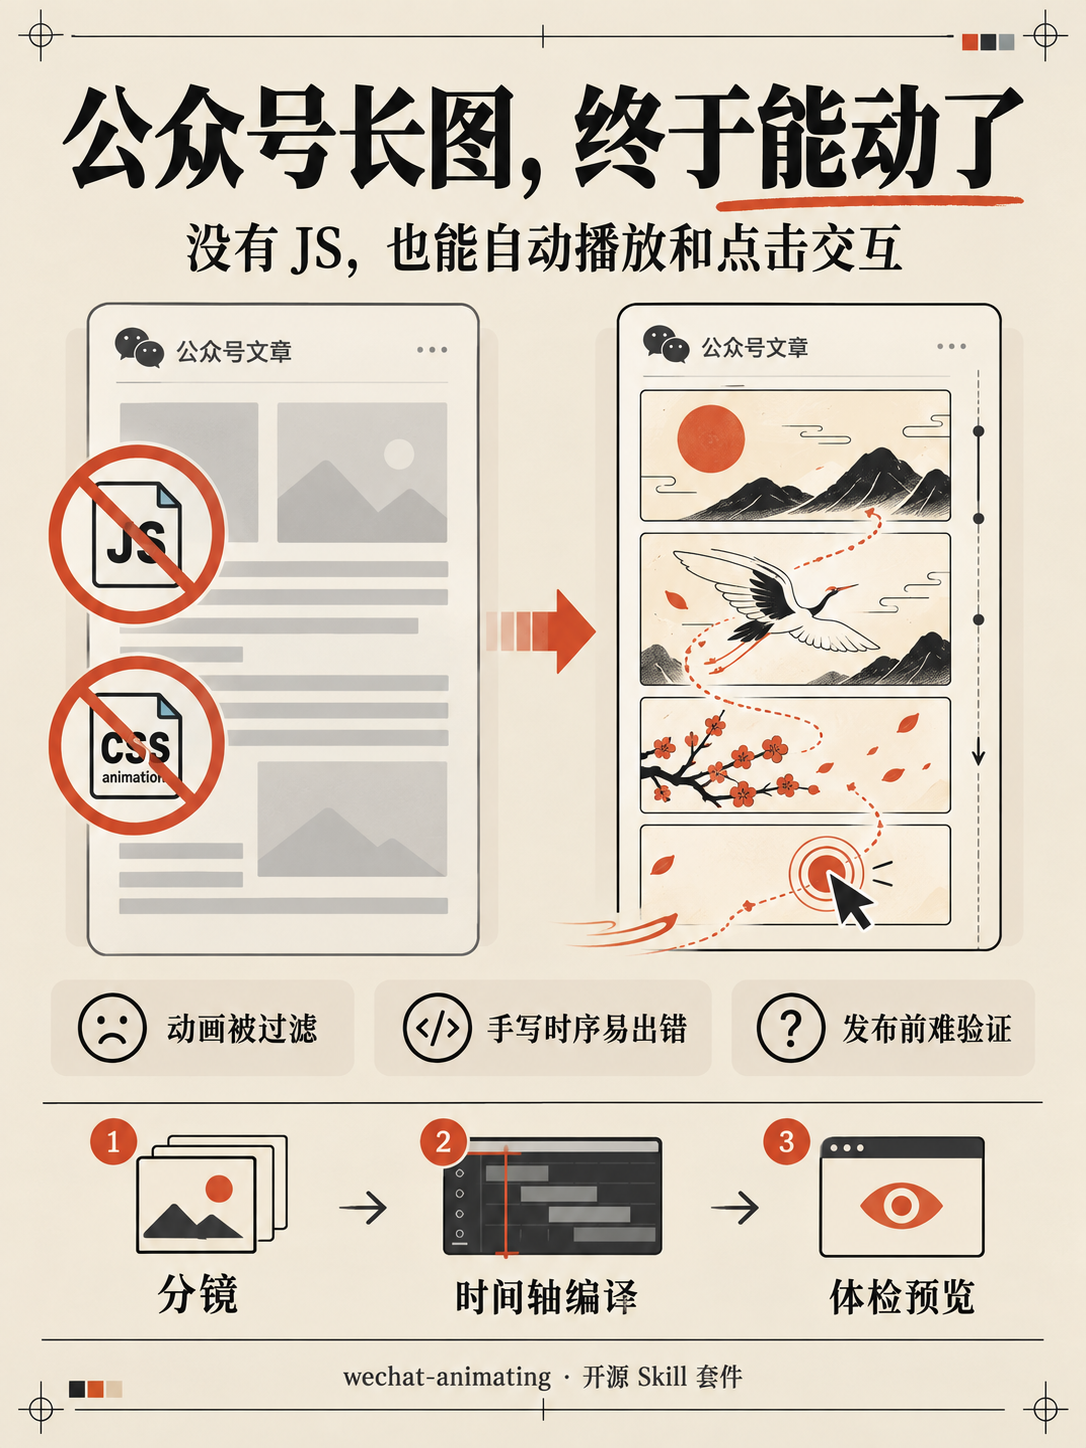
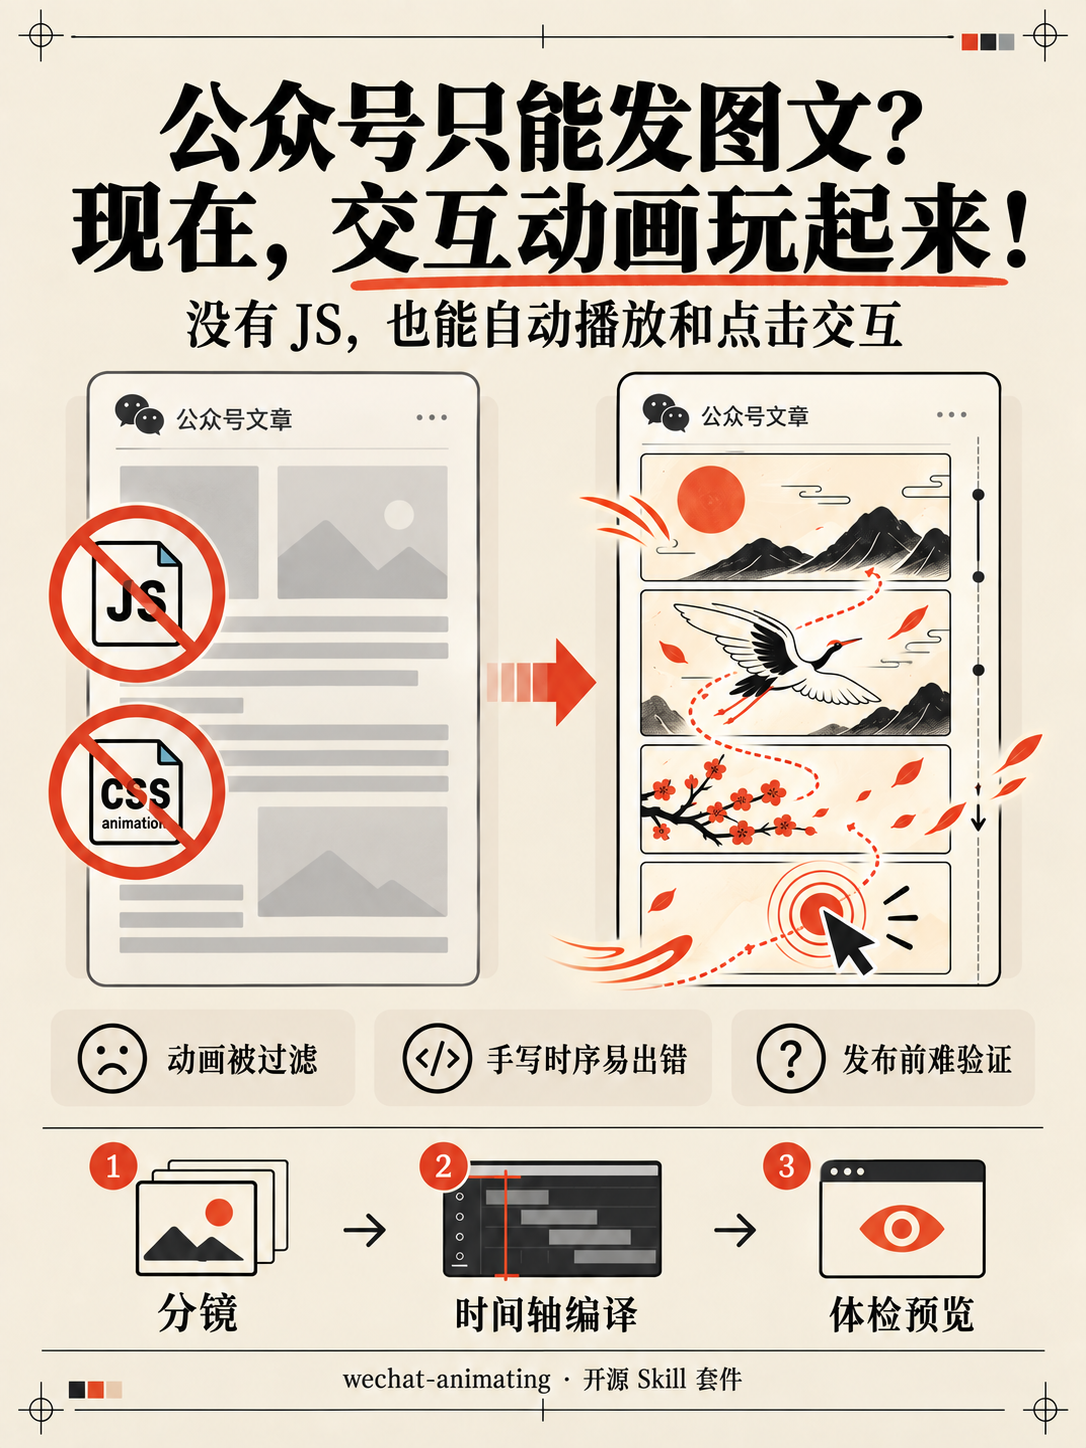
docs: refresh Xiaohongshu posters with interactive practices

diff --git a/README.md b/README.md
@@ -90,10 +90,10 @@ python3 shot.py 8.95 9.2 11.0   # 冻结到指定时刻逐帧截图
 
 ## 小红书配图
 
-- [图 1：这个 Skill 解决什么痛点](social/xiaohongshu/01-pain-points.png)
-- [图 2：Practice 示例《它是怎么动起来的》](social/xiaohongshu/02-practice-example.png)
+- [图 1：公众号只能发图文？现在，交互动画玩起来！](social/xiaohongshu/01-pain-points.png)
+- [图 2：六种动画与交互 Practice](social/xiaohongshu/02-practice-example.png)
 
-两张竖版 PNG 可直接用于图文发布。第二张为案例说明图；可操作的动画请打开上方在线演示。
+两张竖版 PNG 可直接用于图文发布。第二张为玩法示意图；可操作的动画请打开上方在线演示。
 
 ## 已知限制
 
